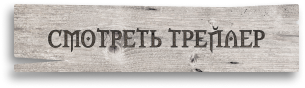
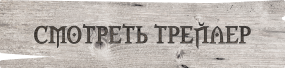
added style

diff --git a/src/index.html b/src/index.html
@@ -13,6 +13,7 @@
     <meta name="msapplication-TileColor" content="#da532c" />
     <meta name="theme-color" content="#ffffff" />
     <title>Ведьмак</title>
+    <link rel="preload" href="./fonts/ibm-plex-mono-v12-cyrillic-500.woff2" as="font" type="font/woff2" crossorigin />
   </head>
   <body>
     <header class="header">
@@ -46,7 +47,7 @@
 
           <p class="present__tagline">Те, кто связан предназначением, всегда найдут друг друга</p>
 
-          <a href="https://youtu.be/PQ59CmCyOk4" class="present__btn">смотреть трейлер</a>
+          <a href="#" class="present__btn"></a>
         </div>
 
         <div class="present__tabs tabs">
@@ -75,6 +76,7 @@
                     </figure>
                   </a>
                 </li>
+
                 <li class="card card_video">
                   <a href="https://youtu.be/PQ59CmCyOk4" class="card__link">
                     <figure>
@@ -83,6 +85,7 @@
                     </figure>
                   </a>
                 </li>
+
                 <li class="card card_video">
                   <a href="https://youtu.be/Si65KjkMy8s" class="card__link">
                     <figure>
@@ -99,12 +102,15 @@
                 <li class="card card_img">
                   <img class="card__photo-img" src="./img/cirilla.jpg" alt="" />
                 </li>
+
                 <li class="card card_img">
                   <img class="card__photo-img" src="./img/geralt.jpg" alt="" />
                 </li>
+
                 <li class="card card_img">
                   <img class="card__photo-img" src="./img/versus.jpg" alt="" />
                 </li>
+
                 <li class="card card_img">
                   <img class="card__photo-img" src="./img/kadrs2.jpg" alt="" />
                 </li>
@@ -116,7 +122,7 @@
                 <li class="card card_product">
                   <article class="product">
                     <img src="./img/pendant.jpg" alt="" class="product__img" />
-                    <h2>Медальон Школы Волка</h2>
+                    <h2 class="product__title">Медальон Школы Волка</h2>
                     <div class="product__wrapper-buy">
                       <p class="product__price">999₽</p>
                       <button class="product__btn-buy">
@@ -127,10 +133,11 @@
                     </div>
                   </article>
                 </li>
+
                 <li class="card card_product">
                   <article class="product">
                     <img src="./img/mask.jpg" alt="" class="product__img" />
-                    <h2>Маска защитная</h2>
+                    <h2 class="product__title">Маска защитная</h2>
                     <div class="product__wrapper-buy">
                       <p class="product__price">390₽</p>
                       <button class="product__btn-buy">
@@ -141,10 +148,11 @@
                     </div>
                   </article>
                 </li>
+
                 <li class="card card_product">
                   <article class="product">
                     <img src="./img/pendent.jpg" alt="" class="product__img" />
-                    <h2>Кулон Волк</h2>
+                    <h2 class="product__title">Кулон Волк</h2>
                     <div class="product__wrapper-buy">
                       <p class="product__price">1999₽</p>
                       <button class="product__btn-buy">

diff --git a/src/sass/blocks/_product.sass b/src/sass/blocks/_product.sass
@@ -1,0 +1,38 @@
+.product
+  &__img
+    width: 100%
+    height: 176px
+    object-fit: cover
+    object-position: center
+    margin-bottom: 10px
+  &__title
+    font-weight: 400
+    font-size: 20px
+    line-height: 120%
+    margin-bottom: 5px
+  &__wrapper-buy
+    display: flex
+    justify-content: space-between
+  &__btn
+    &-buy
+      width: 36px
+      height: 36px
+      display: flex
+      justify-content: center
+      align-items: center
+      border: 1px solid transparent
+      border-radius: 50%
+      color: #fff
+      outline: none
+      transition: background-color .3s ease-in, color .2s ease-in, border-color .3s ease-in
+      &:hover
+        background-color: rgba(255, 255, 255, 0.19)
+      &:active
+        background-color: rgba(255, 255, 255, 0.19)
+        color: #B3B3B3
+      &:focus
+        background-color: rgba(255, 255, 255, 0.19)
+        border-color: #9B9B9B
+    &-icon
+      width: 24px
+      height: 24px

diff --git a/src/sass/blocks/_present.sass b/src/sass/blocks/_present.sass
@@ -1,0 +1,29 @@
+.present
+  padding: 27px 0 68px
+  &__hero
+    margin-bottom: 30px
+  &__title
+    font-family: 'IBM Plex Mono'
+    font-weight: 500
+    font-size: 90px
+    line-height: 120%
+    margin-bottom: 8px
+  &__tagline
+    line-height: 130%
+    margin-bottom: 54px
+  &__btn
+    display: block
+    width: 285px
+    height: 68px
+    background-image: url("../img/button.png")
+    background-size: cover
+    filter: drop-shadow(-4px 6px 10px rgba(10, 10, 10, 0.51))
+    border-radius: 2px
+    outline: none
+    transition: background-image .3s ease-in
+    &:hover
+      background-image: url("../img/button-hover.png")
+    &:active
+      background-image: url("../img/button-active.png")
+    &:focus
+      background-image: url("../img/button-focus.png")

diff --git a/src/sass/blocks/_tabs.sass b/src/sass/blocks/_tabs.sass
@@ -1,0 +1,33 @@
+.tabs
+  &__control
+    display: flex
+    justify-content: space-between
+    background-color: rgba(0, 0, 0, 0.7)
+    padding: 13px 21px
+    font-family: "Arial Bold"
+    font-weight: 700
+    font-size: 20px
+    line-height: 140%
+    color: #fff
+    max-width: 285px
+    margin-left: auto
+    margin-bottom: 12px
+  &__btn
+    line-height: 1.1
+    color: inherit
+    border-bottom: 2px solid transparent
+    outline: none
+    transition: color .3s ease-in, border-color .3s ease-in
+    &:hover
+      color: #ECECEC
+      border-color: #ECECEC
+    &:active
+      border-color: #fff
+    &:focus
+      border-color: #fff
+    &_active
+      border-color: #fff
+  &__content
+    display: flex
+    justify-content: space-between
+    gap: 30px

diff --git a/src/sass/blocks/_navigation.sass b/src/sass/blocks/_navigation.sass
@@ -1,0 +1,27 @@
+.navigation
+  &__list
+    display: flex
+    gap: 25px
+  &__link
+    display: block
+    background-color: rgba(255, 255, 255, 0.7)
+    background-position: center
+    background-repeat: no-repeat
+    width: 40px
+    height: 40px
+    border-radius: 50%
+    border: 1px solid transparent
+    outline: 0
+    transition: all 0.3s ease-in-out
+    &:focus
+      background-color: #FFFFFF
+      border-color: #5B5B5B
+    &:active, &:hover
+      background-color: #FFFFFF
+      box-shadow: 0px 1px 5px rgba(0, 0, 0, 0.7)
+    &_netflix
+      background-image: url("../img/netflix.svg")
+    &_okko
+      background-image: url("../img/okko.svg")
+    &_kinopoisk
+      background-image: url("../img/kinopoisk.svg")

diff --git a/src/sass/blocks/_card.sass b/src/sass/blocks/_card.sass
@@ -1,0 +1,18 @@
+.card
+  &_video
+    flex-basis: 285px
+  &__video-img
+    width: 100%
+    height: 146px
+    object-fit: cover
+    object-position: center
+    margin-bottom: 10px
+  &_img
+    flex-basis: 255px
+  &__photo-img
+    width: 100%
+    height: 206px
+    object-fit: cover
+    object-position: center
+  &_product
+    flex-basis: 285px

diff --git a/src/sass/blocks/_header.sass b/src/sass/blocks/_header.sass
@@ -1,0 +1,11 @@
+.header
+  padding-top: 20px
+  padding-bottom: 10px
+  &__container
+    display: grid
+    grid-template-columns: repeat(3, 1fr)
+    align-items: center
+  &__announcement
+    justify-self: center
+  &__navigation
+    justify-self: end

diff --git a/src/sass/style.sass b/src/sass/style.sass
@@ -2,3 +2,9 @@
 @import 'fonts'
 // @import 'variable'
 @import 'setting'
+@import "blocks/header"
+@import "blocks/navigation"
+@import "blocks/present"
+@import "blocks/tabs"
+@import "blocks/card"
+@import "blocks/product"

diff --git a/src/sass/_setting.sass b/src/sass/_setting.sass
@@ -19,13 +19,6 @@ body
 h1, h2, h3, h4, p, ul, figure
   margin: 0
 
-h1
-  font-family: 'IBM Plex Mono'
-  font-weight: 500
-  font-size: 90px
-  line-height: 120%
-  color: #FFFFFF
-
 fieldset
   margin: 0
   padding: 0
